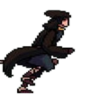
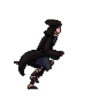
Key Listener for Knight DONE

Changed region(s): [[0.0, 0.09, 0.75, 0.96], [0.45, 0.39, 0.48, 0.42]]

diff --git a/ChangeChevalierPosition.java b/ChangeChevalierPosition.java
@@ -1,46 +1,121 @@
 import javax.swing.*;
 import java.awt.event.ActionEvent;
 import java.awt.event.ActionListener;
+import java.awt.event.KeyEvent;
+import java.awt.event.KeyListener;
 
 public class ChangeChevalierPosition {
+    private int x = 0;
+    private int c=0;
     private JFrame fenetre;
-    private JLabel imageLabel1;
-    private Timer timer;
-    private int x1 = 0; // Position en x de la première image
+    public JLabel imageLabel;
+    public String[] imagePaths = {
+        "../project/KnightMvmnt/run1.png",
+        "../project/KnightMvmnt/run2.png",
+        "../project/KnightMvmnt/run3.png",
+        "../project/KnightMvmnt/run4.png",
+        "../project/KnightMvmnt/run5.png",
+        "../project/KnightMvmnt/run6.png",
+        "../project/KnightMvmnt/run7.png",
+        "../project/KnightMvmnt/run8.png"
+    };
+      public String[] imagePathsInverse = {
+        "../project/KnightMvmnt/run11.png",
+        "../project/KnightMvmnt/run22.png",
+        "../project/KnightMvmnt/run33.png",
+        "../project/KnightMvmnt/run44.png",
+        "../project/KnightMvmnt/run55.png",
+        "../project/KnightMvmnt/run66.png",
+        "../project/KnightMvmnt/run77.png",
+        "../project/KnightMvmnt/run88.png"
+    };
+
+
+    private int currentImageIndexX = 0;
+
+    private int y = 220;
+
 
     public ChangeChevalierPosition() {
-        fenetre = new JFrame("Animation de photos");
+        fenetre = new JFrame("Affichage de photos");
         fenetre.setSize(800, 600);
         fenetre.setDefaultCloseOperation(JFrame.EXIT_ON_CLOSE);
-        fenetre.setLayout(null);
-        ChangeChevalierAttack Attack  = new ChangeChevalierAttack();
 
-        imageLabel1 = new JLabel(Attack.ChangeChevalierAttack());
+        imageLabel = new JLabel();
+        fenetre.add(imageLabel);
 
-        fenetre.add(imageLabel1);
-
-        imageLabel1.setBounds(x1, 220, 100, 100); // Position et taille de la première image
-
- 
-        timer = new Timer(200, new ActionListener() {
+        // Create a Timer to switch images
+        Timer timer = new Timer(200, new ActionListener() {
             @Override
             public void actionPerformed(ActionEvent e) {
-                // Mettre à jour les positions des images
-                x1 += 5; // Augmenter la position de la première image
-                if (x1 > fenetre.getWidth()) {
-                    x1 = -100; // Repositionner la première image à gauche
-                }
-                imageLabel1.setLocation(x1, 220);
+                 while(c<1){
+                afficherImage(imagePaths[currentImageIndexX]);
+                afficherImage(imagePathsInverse[currentImageIndexX]);
+                c=c+1;
+                 }
+                currentImageIndexX = (currentImageIndexX + 1) % imagePaths.length; // Loop through the images
             }
         });
-        timer.setRepeats(true); // Arrête le timer après une seule exécution
         timer.start();
 
-
-       
-   
         fenetre.setVisible(true);
-        
+        fenetre.addKeyListener(new KeyListener() {
+            @Override
+            public void keyTyped(KeyEvent e) {
+                // Ne rien faire ici, car nous n'utilisons pas keyTyped
+            }
+
+            @Override
+            public void keyPressed(KeyEvent e) {
+                if (e.getKeyCode() == KeyEvent.VK_RIGHT) {
+                    // Code à exécuter lorsque la touche droite est enfoncée
+                    x += 5; // Avancez l'animation
+                    if (x > 1000) {
+                        x = 0; // Réinitialisez x lorsque vous atteignez la fin
+                    }
+                    afficherImage(imagePaths[currentImageIndexX]); // Affichez l'image mise à jour
+                }
+                if (e.getKeyCode() == KeyEvent.VK_LEFT) {
+                    // Code à exécuter lorsque la touche droite est enfoncée
+                    x -= 5; // Avancez l'animation
+                    if (x <= 0) {
+                        x = 0; // Réinitialisez x lorsque vous atteignez la fin
+                    }
+                    afficherImage(imagePathsInverse[currentImageIndexX]); // Affichez l'image mise à jour
+                }
+                if (e.getKeyCode() == KeyEvent.VK_UP) {
+                    // Code à exécuter lorsque la touche droite est enfoncée
+                    y -= 5; // Avancez l'animation
+                    if (y <= 0) {
+                        y = 0; // Réinitialisez x lorsque vous atteignez la fin
+                    }
+                    afficherImage(imagePaths[currentImageIndexX]); // Affichez l'image mise à jour
+                }
+                if (e.getKeyCode() == KeyEvent.VK_DOWN) {
+                    // Code à exécuter lorsque la touche droite est enfoncée
+                    y += 5; // Avancez l'animation
+                    if (y > 1000) {
+                        y = 0; // Réinitialisez x lorsque vous atteignez la fin
+                    }
+                    afficherImage(imagePaths[currentImageIndexX]); // Affichez l'image mise à jour
+                }
+            }
+
+            @Override
+            public void keyReleased(KeyEvent e) {
+                // Ne rien faire ici, car nous n'utilisons pas keyReleased
+            }
+        });
+
+        fenetre.setFocusable(true); // Assurez-vous que la fenêtre est focusable
+        fenetre.requestFocus(); // Donnez le focus à la fenêtre pour détecter les touches
+    }
+
+    private void afficherImage(String nomImage) {
+        ImageIcon imageIcon = new ImageIcon(nomImage);
+        imageLabel.setIcon(imageIcon);
+        imageLabel.setBounds(x,y, imageIcon.getIconWidth(), imageIcon.getIconHeight()); // Définissez la position de l'image
+        fenetre.repaint(); // Actualisez la fenêtre pour afficher l'image
     }
 
     public static void main(String[] args) {
